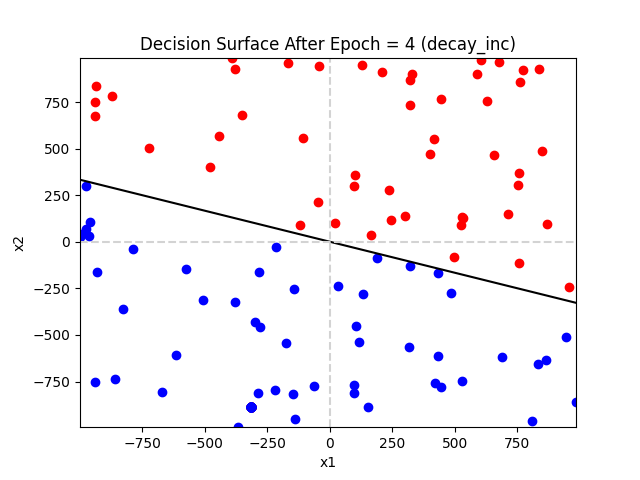
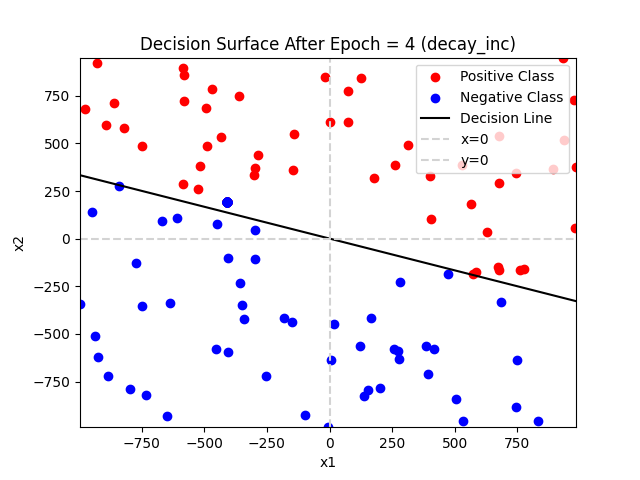
Add adapt

diff --git a/src/main.py b/src/main.py
@@ -77,14 +77,14 @@ def generate_data(num_examples):
 def plotError(err, type, eta):
     fig = plt.figure()
     for i in range(len(err)):
-        plt.plot(range(EPOCHS), err[i], label="eta = " +str(eta[i]), linestyle="--", dashes=(5, i))
+        plt.plot(range(EPOCHS), err[i], label=f'eta = {eta[i]}', linestyle="--", dashes=(5, i))
         plt.xlabel('Epoch')
         plt.ylabel('Error')
         plt.xlim([0, 20])
         plt.title('Error during ' + type + ' training')
         plt.legend()
     fig.savefig(FIGURES_PATH + type + "/error_plot.png")
-    plt.clf()
+    plt.close()
 
 def plotDecSurf(epoch, weights, train, type):
     pred = np.dot(train[:,:-1], weights)
@@ -110,8 +110,16 @@ def plotDecSurf(epoch, weights, train, type):
     plt.legend(loc='upper right')
     plt.title('Decision Surface After Epoch = '+ str(epoch) + " ("+type+")")
     fig.savefig(FIGURES_PATH + type+"/dec_surf"+str(epoch)+".png")
-    plt.clf()
-    
+    plt.close()
+
+def plotAdaptError(err, name):
+    fig = plt.figure()
+    plt.plot(range(EPOCHS), err, linestyle="--")
+    plt.xlabel('Epoch')
+    plt.ylabel('Error')
+    plt.title('Error using adaptive learning rate')
+    fig.savefig(f'{FIGURES_PATH}{name}/error_plot.png')
+    plt.close()
 
 def main():
     print("Assignment 3: Naive Bayes")
@@ -178,6 +186,57 @@ def main():
         if (epoch == 4 or epoch == 9 or epoch == 49 or epoch == 99):
             plotDecSurf(epoch, percep_decay_batch.weights, percep_decay_batch.train, "decay_batch")
     plotError([err, err_batch[3]], "decay_batch", ["decay", "normal"])
+
+    # Adaptive rate for incremental
+    err = []
+    learning_rates = []
+    learning_rate = 0.3
+    THRESHOLD = 0.03
+    DECREASE = 0.9
+    INCREASE = 1.02
+    percep_adapt_inc = Perceptron(train_data, test_data, weights)
+    percep_adapt_inc.incremental_update_weights(learning_rate)
+    prev_err = percep_adapt_inc.calculate_error()
+    for epoch in range(EPOCHS):
+        weights_before = percep_adapt_inc.weights
+        percep_adapt_inc.incremental_update_weights(learning_rate)
+        curr_err = percep_adapt_inc.calculate_error()
+        learning_rates.append(learning_rate)
+        err.append(curr_err)
+        if (epoch == 4 or epoch == 9 or epoch == 49 or epoch == 99):
+            plotDecSurf(epoch, percep_adapt_inc.weights, percep_adapt_inc.train, "adapt_inc")
+        if curr_err < prev_err:
+            learning_rate *= INCREASE
+        elif prev_err - curr_err > THRESHOLD:
+            learning_rate *= DECREASE
+            percep_adapt_inc.weights = weights_before
+
+        prev_err = curr_err    
+    plotAdaptError(err, "adapt_inc")
+
+    # Adaptive rate for batch
+    err = []
+    learning_rates = []
+    learning_rate = 0.3
+    percep_adapt_batch = Perceptron(train_data, test_data, weights)
+    percep_adapt_batch.batch_update_weights(learning_rate)
+    prev_err = percep_adapt_batch.calculate_error()
+    for epoch in range(EPOCHS):
+        weights_before = percep_adapt_batch.weights
+        percep_adapt_batch.batch_update_weights(learning_rate)
+        curr_err = percep_adapt_batch.calculate_error()
+        learning_rates.append(learning_rate)
+        err.append(curr_err)
+        if (epoch == 4 or epoch == 9 or epoch == 49 or epoch == 99):
+            plotDecSurf(epoch, percep_adapt_batch.weights, percep_adapt_batch.train, "adapt_batch")
+        if curr_err < prev_err:
+            learning_rate *= INCREASE
+        elif prev_err - curr_err > THRESHOLD:
+            learning_rate *= DECREASE
+            percep_adapt_inc.weights = weights_before
+
+        prev_err = curr_err    
+    plotAdaptError(err, "adapt_batch")
 
 
 if __name__ == "__main__":
